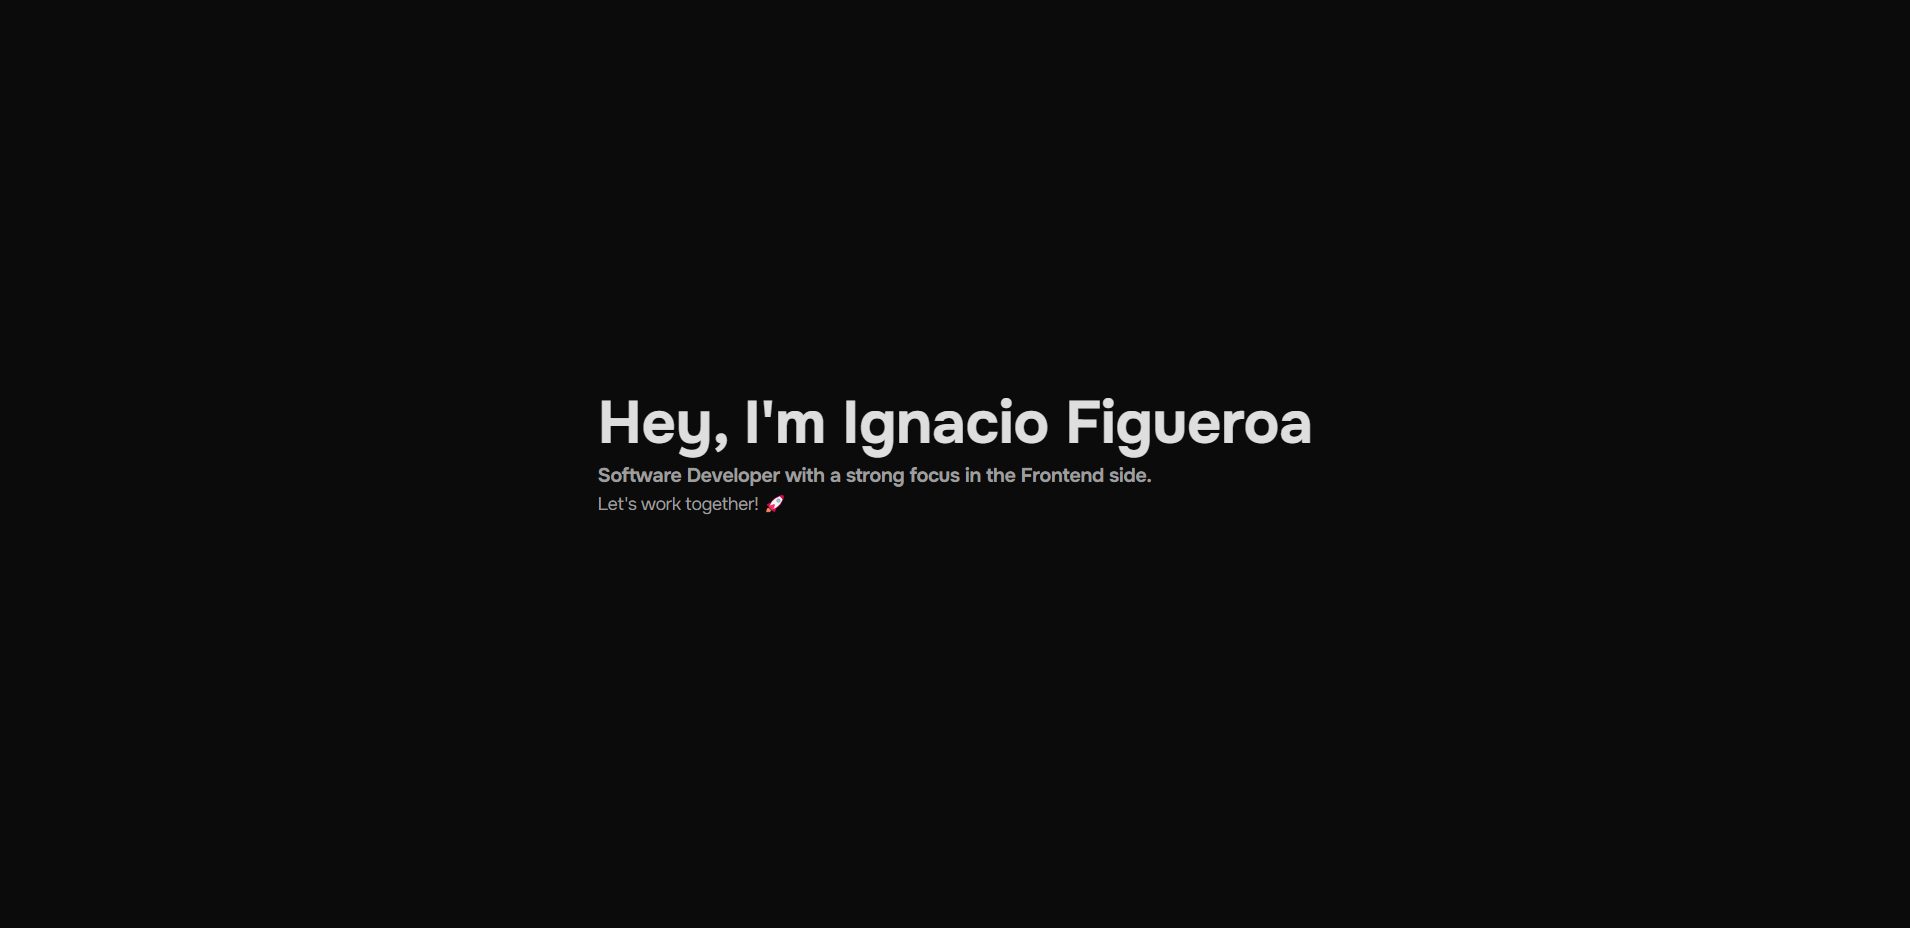
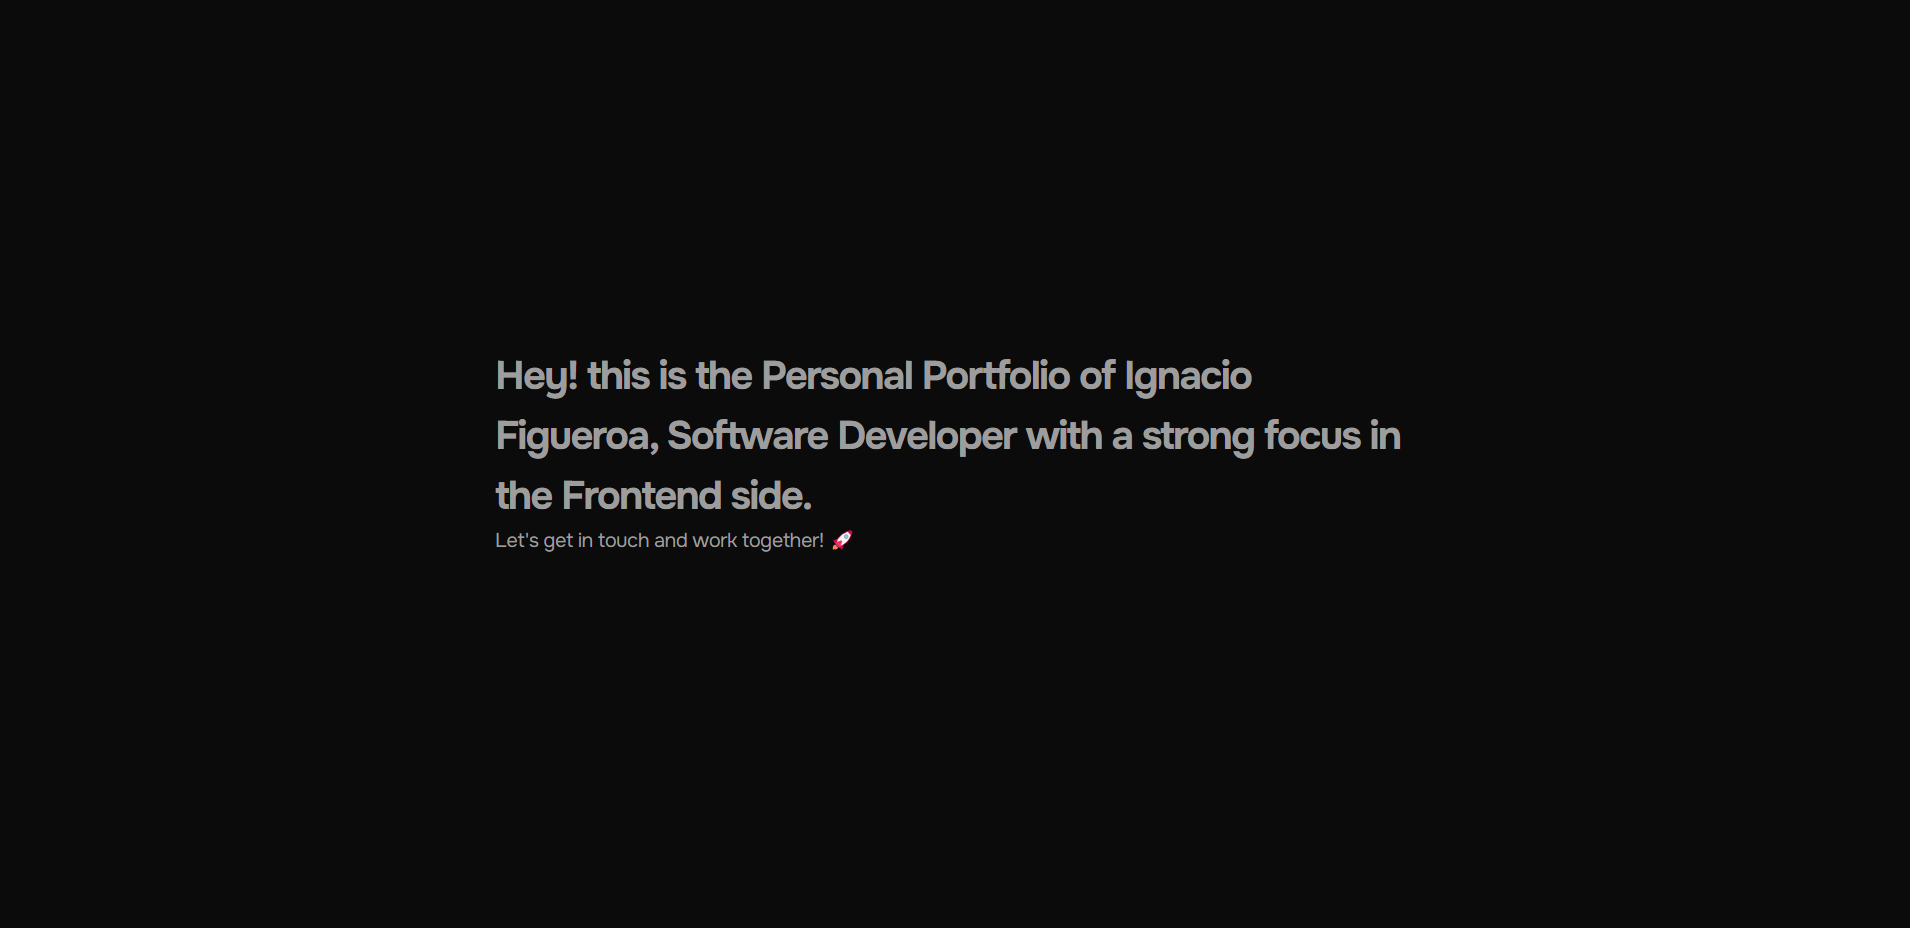
chore: changing the og image

Changed region(s): [[0.2471, 0.375, 0.7414, 0.5938]]

diff --git a/src/components/OgImage.tsx b/src/components/OgImage.tsx
@@ -1,13 +1,19 @@
 export default function OgImage() {
   return (
     <div>
-      <h1 style={{ fontSize: "3rem", fontWeight: "bold", opacity: ".9" }}>
-        Hey, I'm Ignacio Figueroa
-      </h1>
-      <p style={{ fontSize: "1rem", fontWeight: "bold" }}>
-        Software Developer with a strong focus in the Frontend side.
+      <p
+        style={{
+          fontSize: "2rem",
+          fontWeight: "bold",
+          letterSpacing: "-0.090rem",
+        }}
+      >
+        Hey! this is the Personal Portfolio of Ignacio Figueroa, Software
+        Developer with a strong focus in the Frontend side.
       </p>
-      <p>Let's work together! 🚀</p>
+      <p style={{ fontSize: "1rem" }}>
+        Let's get in touch and work together! 🚀
+      </p>
     </div>
   );
 }
